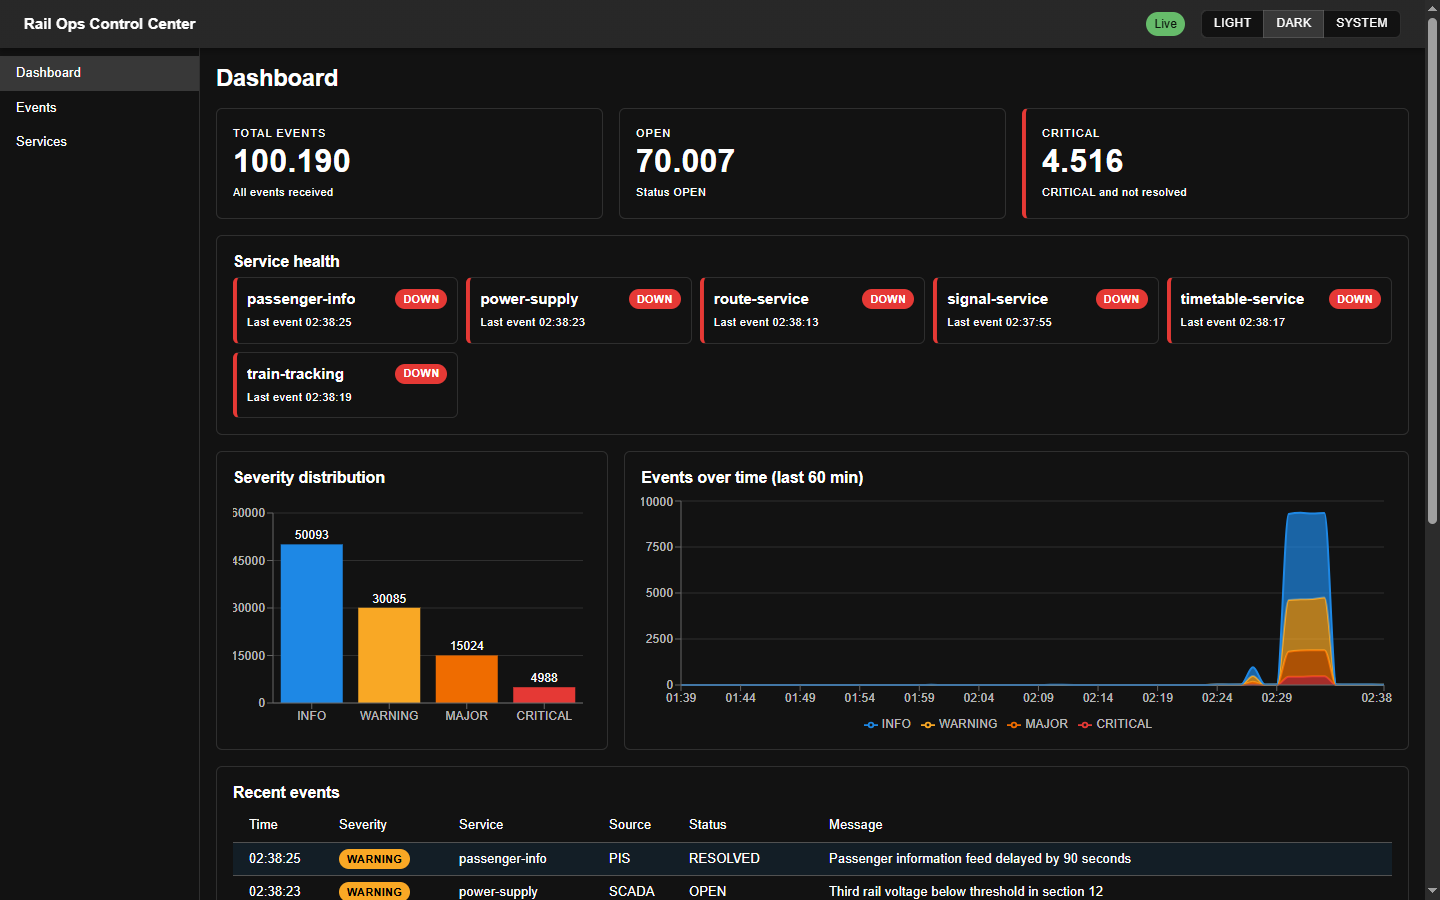
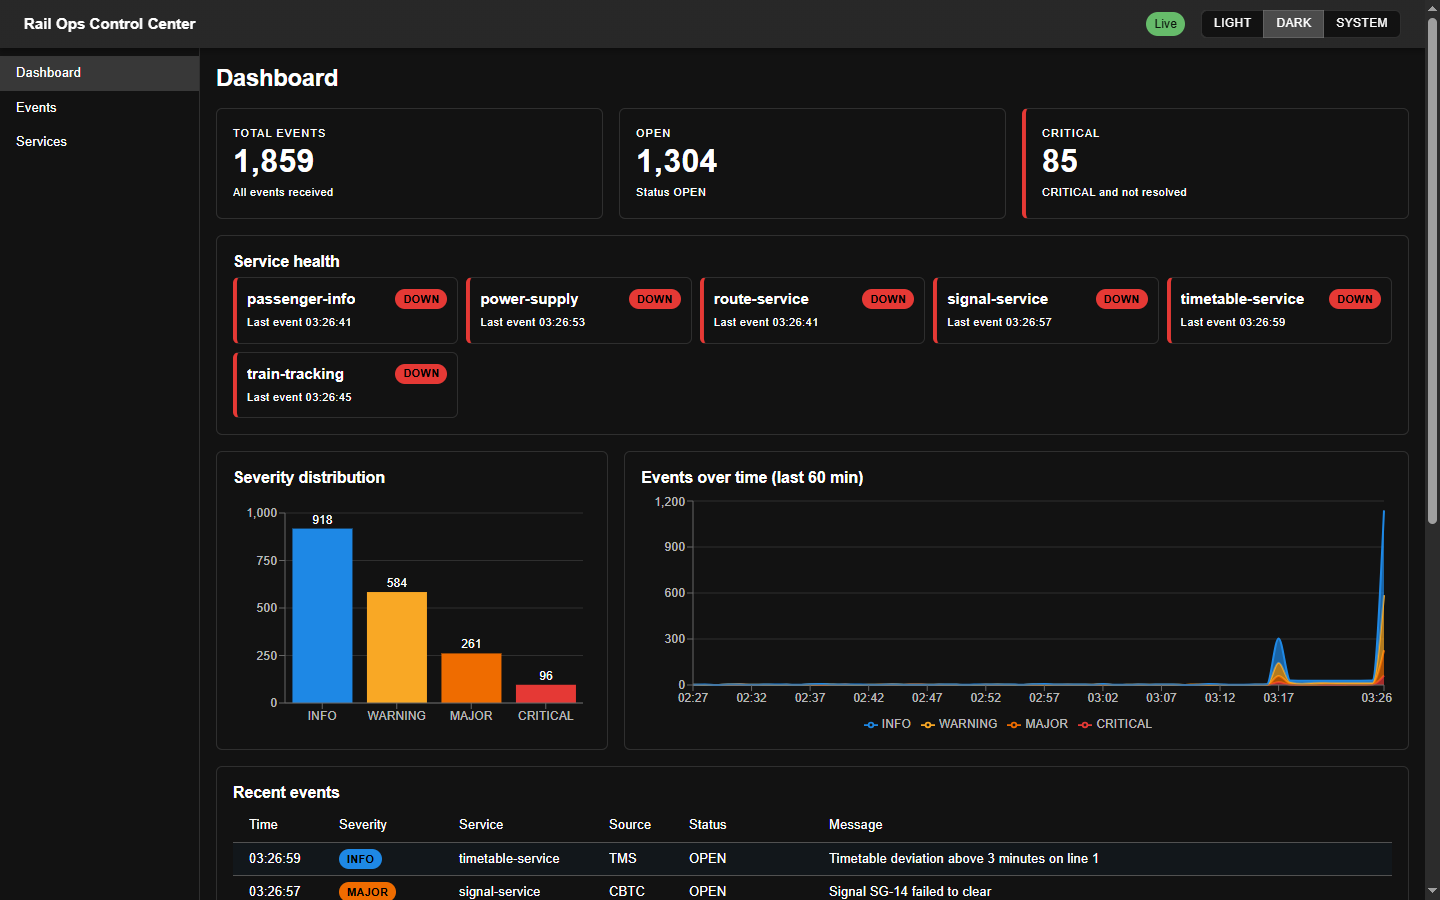
fix: resolve web interface guidelines audit findings
Raise the event drawer above the app bar, pin dates and numbers to
en-GB and format chart counts consistently, widen the chart y-axes,
pick chip text by WCAG contrast, and reserve a stable scrollbar gutter.

diff --git a/frontend/src/components/dashboard/SeverityChart.tsx b/frontend/src/components/dashboard/SeverityChart.tsx
@@ -3,6 +3,7 @@ import { Bar, BarChart, CartesianGrid, Cell, LabelList, ResponsiveContainer, Too
 import { useDashboardSummary } from '../../api/dashboard'
 import { toSeverityRows } from '../../lib/chartData'
 import { SEVERITY_COLORS } from '../../lib/colors'
+import { formatCount } from '../../lib/format'
 import { EmptyState, Panel } from './Panel'
 
 const AXIS_TICK = { fill: 'var(--mui-palette-text-secondary)', fontSize: 12 }
@@ -23,13 +24,19 @@ export function SeverityChart() {
             <BarChart data={rows} margin={{ top: 20, right: 8, bottom: 0, left: 0 }}>
               <CartesianGrid vertical={false} stroke="var(--mui-palette-divider)" />
               <XAxis dataKey="severity" tick={AXIS_TICK} interval={0} />
-              <YAxis allowDecimals={false} tick={AXIS_TICK} width={40} />
-              <Tooltip cursor={{ fill: 'var(--mui-palette-action-hover)' }} />
+              <YAxis allowDecimals={false} tick={AXIS_TICK} width={52} tickFormatter={formatCount} />
+              <Tooltip cursor={{ fill: 'var(--mui-palette-action-hover)' }} formatter={(value) => formatCount(Number(value))} />
               <Bar dataKey="count" name="Events" isAnimationActive={false}>
                 {rows.map((row) => (
                   <Cell key={row.severity} fill={SEVERITY_COLORS[row.severity]} />
                 ))}
-                <LabelList dataKey="count" position="top" fill="var(--mui-palette-text-primary)" fontSize={12} />
+                <LabelList
+                  dataKey="count"
+                  position="top"
+                  fill="var(--mui-palette-text-primary)"
+                  fontSize={12}
+                  formatter={(value) => formatCount(Number(value))}
+                />
               </Bar>
             </BarChart>
           </ResponsiveContainer>

diff --git a/frontend/src/components/dashboard/TimelineChart.tsx b/frontend/src/components/dashboard/TimelineChart.tsx
@@ -3,6 +3,7 @@ import { Area, AreaChart, CartesianGrid, Legend, ResponsiveContainer, Tooltip, X
 import { TIMELINE_MINUTES, useTimeline } from '../../api/dashboard'
 import { timelineTotal, toTimelineRows } from '../../lib/chartData'
 import { SEVERITY_COLORS } from '../../lib/colors'
+import { formatCount } from '../../lib/format'
 import { SEVERITIES } from '../../types/dashboard'
 import type { Severity } from '../../types/dashboard'
 import { EmptyState, Panel } from './Panel'
@@ -42,8 +43,12 @@ export function TimelineChart() {
             <AreaChart data={rows} margin={{ top: 8, right: 8, bottom: 0, left: 0 }}>
               <CartesianGrid vertical={false} stroke="var(--mui-palette-divider)" />
               <XAxis dataKey="label" tick={AXIS_TICK} interval="preserveStartEnd" minTickGap={24} />
-              <YAxis allowDecimals={false} tick={AXIS_TICK} width={40} />
-              <Tooltip cursor={{ stroke: 'var(--mui-palette-divider)' }} itemSorter={bySeverity} />
+              <YAxis allowDecimals={false} tick={AXIS_TICK} width={52} tickFormatter={formatCount} />
+              <Tooltip
+                cursor={{ stroke: 'var(--mui-palette-divider)' }}
+                itemSorter={bySeverity}
+                formatter={(value) => formatCount(Number(value))}
+              />
               <Legend wrapperStyle={{ fontSize: 12 }} itemSorter={bySeverity} formatter={legendLabel} />
               {STACK_ORDER.map((severity) => (
                 <Area

diff --git a/frontend/src/pages/DashboardPage.test.tsx b/frontend/src/pages/DashboardPage.test.tsx
@@ -97,7 +97,7 @@ describe('dashboard page', () => {
     renderApp('/dashboard')
 
     const total = screen.getByRole('region', { name: 'Total events' })
-    expect(await within(total).findByText((1234).toLocaleString())).toBeInTheDocument()
+    expect(await within(total).findByText('1,234')).toBeInTheDocument()
     expect(within(screen.getByRole('region', { name: 'Open' })).getByText('120')).toBeInTheDocument()
     expect(within(screen.getByRole('region', { name: 'Critical' })).getByText('12')).toBeInTheDocument()
 
@@ -134,7 +134,7 @@ describe('dashboard page', () => {
     act(() => live.simulateSummaryMessage(JSON.stringify(populated.summary)))
 
     // React Query's notifyManager batches cache-update notifications on a real timer, not a microtask.
-    await waitFor(() => expect(within(total).getByText((1234).toLocaleString())).toBeInTheDocument())
+    await waitFor(() => expect(within(total).getByText('1,234')).toBeInTheDocument())
     expect(within(screen.getByRole('region', { name: 'Open' })).getByText('120')).toBeInTheDocument()
   })
 

diff --git a/frontend/src/lib/colors.ts b/frontend/src/lib/colors.ts
@@ -15,7 +15,21 @@ export const HEALTH_COLORS: Record<ServiceHealth, string> = {
   DOWN: '#e53935',
 }
 
-/** Text color that stays readable on top of a severity or health color. */
+function luminance(hex: string): number {
+  const [r, g, b] = [1, 3, 5].map((start) => {
+    const channel = parseInt(hex.slice(start, start + 2), 16) / 255
+    return channel <= 0.03928 ? channel / 12.92 : ((channel + 0.055) / 1.055) ** 2.4
+  })
+  return 0.2126 * r + 0.7152 * g + 0.0722 * b
+}
+
+/** WCAG contrast ratio between two `#rrggbb` colors. */
+export function contrastRatio(a: string, b: string): number {
+  const [light, dark] = [luminance(a), luminance(b)].sort((x, y) => y - x)
+  return (light + 0.05) / (dark + 0.05)
+}
+
+/** Black or white, whichever reads better on top of a severity or health color. */
 export function contrastText(background: string): string {
-  return background === SEVERITY_COLORS.WARNING ? '#000' : '#fff'
+  return contrastRatio(background, '#000000') >= contrastRatio(background, '#ffffff') ? '#000000' : '#ffffff'
 }

diff --git a/frontend/src/lib/format.ts b/frontend/src/lib/format.ts
@@ -1,17 +1,20 @@
-const timeFormat = new Intl.DateTimeFormat(undefined, {
+// The UI copy is English only, so numbers and dates must not follow the browser locale.
+const LOCALE = 'en-GB'
+
+const timeFormat = new Intl.DateTimeFormat(LOCALE, {
   hour: '2-digit',
   minute: '2-digit',
   second: '2-digit',
   hour12: false,
 })
 
-const minuteFormat = new Intl.DateTimeFormat(undefined, {
+const minuteFormat = new Intl.DateTimeFormat(LOCALE, {
   hour: '2-digit',
   minute: '2-digit',
   hour12: false,
 })
 
-const dateTimeFormat = new Intl.DateTimeFormat(undefined, {
+const dateTimeFormat = new Intl.DateTimeFormat(LOCALE, {
   dateStyle: 'medium',
   timeStyle: 'medium',
   hour12: false,
@@ -40,6 +43,8 @@ export function formatDateTime(iso: string | null | undefined): string {
   return date ? dateTimeFormat.format(date) : '—'
 }
 
+const countFormat = new Intl.NumberFormat(LOCALE)
+
 export function formatCount(value: number): string {
-  return value.toLocaleString()
+  return countFormat.format(value)
 }

diff --git a/frontend/src/lib/format.test.ts b/frontend/src/lib/format.test.ts
@@ -1,5 +1,5 @@
 import { describe, expect, it } from 'vitest'
-import { formatDateTime, formatMinute, formatTime } from './format'
+import { formatCount, formatDateTime, formatMinute, formatTime } from './format'
 
 describe('formatTime', () => {
   it('formats an ISO time as local HH:mm:ss', () => {
@@ -26,5 +26,19 @@ describe('formatDateTime', () => {
 
   it('includes the seconds of a valid time', () => {
     expect(formatDateTime('2026-09-27T12:30:05Z')).toContain('05')
+  })
+})
+
+describe('formatCount', () => {
+  it('groups thousands with commas whatever the process locale', () => {
+    expect(formatCount(100197)).toBe('100,197')
+    expect(formatCount(50097)).toBe('50,097')
+  })
+})
+
+describe('pinned locale', () => {
+  it('uses a 24 hour clock and an English month name', () => {
+    expect(formatTime('2026-09-27T23:30:05Z')).toMatch(/^\d{2}:\d{2}:05$/)
+    expect(formatDateTime('2026-09-30T12:00:00Z')).toMatch(/^30 Sept 2026, \d{2}:\d{2}:\d{2}$/)
   })
 })

diff --git a/frontend/src/lib/colors.test.ts b/frontend/src/lib/colors.test.ts
@@ -1,0 +1,14 @@
+import { describe, expect, it } from 'vitest'
+import { contrastRatio, contrastText, HEALTH_COLORS, SEVERITY_COLORS } from './colors'
+
+describe('contrastText', () => {
+  const backgrounds = [...Object.entries(SEVERITY_COLORS), ...Object.entries(HEALTH_COLORS)]
+
+  it.each(backgrounds)('reaches WCAG AA on %s (%s)', (_name, background) => {
+    expect(contrastRatio(contrastText(background), background)).toBeGreaterThanOrEqual(4.5)
+  })
+
+  it('picks white on a dark background', () => {
+    expect(contrastText('#102030')).toBe('#ffffff')
+  })
+})

diff --git a/frontend/src/components/events/EventDetailDrawer.tsx b/frontend/src/components/events/EventDetailDrawer.tsx
@@ -30,6 +30,7 @@ export function EventDetailDrawer({ eventId, onClose, ...statusCallbacks }: Prop
       anchor="right"
       open={eventId !== undefined}
       onClose={onClose}
+      sx={(theme) => ({ zIndex: theme.zIndex.drawer + 2 })}
       slotProps={{ paper: { role: 'dialog', 'aria-modal': true, 'aria-labelledby': titleId } }}
     >
       <Box sx={{ width: { xs: '100vw', sm: 440 }, p: 2 }}>

diff --git a/frontend/src/pages/ServicesPage.test.tsx b/frontend/src/pages/ServicesPage.test.tsx
@@ -74,8 +74,8 @@ describe('services page', () => {
     expect(cells.map((cell) => cell.textContent)).toEqual([
       'signal-service',
       'DOWN',
-      (1234).toLocaleString(),
-      (1300).toLocaleString(),
+      '1,234',
+      '1,300',
       'CRITICAL',
       expect.stringMatching(/\d{2}:\d{2}:\d{2}/),
     ])

diff --git a/frontend/src/theme.ts b/frontend/src/theme.ts
@@ -12,6 +12,7 @@ export const theme = createTheme({
     h2: { fontSize: '1rem', fontWeight: 600 },
   },
   components: {
+    MuiCssBaseline: { styleOverrides: { html: { scrollbarGutter: 'stable' } } },
     MuiCard: { defaultProps: { variant: 'outlined' } },
     MuiPaper: { defaultProps: { elevation: 0 } },
   },

diff --git a/blueprint/history/fixes/web-interface-guidelines-audit.md b/blueprint/history/fixes/web-interface-guidelines-audit.md
@@ -1,0 +1,152 @@
+# Fix: Web Interface Guidelines audit findings
+
+**Type:** Fix
+**Status:** verified
+**Branch:** fix/web-interface-guidelines-audit
+
+## The problem
+
+An audit of the dashboard against Vercel's Web Interface Guidelines (screenshots
+in `docs/images/`, then confirmed in the source) found five real defects:
+
+1. **Event drawer hidden under the app bar.** `AppLayout.tsx` sets the AppBar to
+   `zIndex: drawer + 1` (1201) so it sits above the permanent nav drawer. The
+   Events detail drawer (a temporary MUI `Drawer`, z-index 1200) therefore
+   renders below the bar. Its top 48 px, which holds the event ID title and the
+   Close button, is covered, so the Close button cannot be clicked and the
+   scrim does not dim the header. Guideline: sticky headers must not cover
+   focused elements.
+2. **Locale follows the browser, copy does not.** Every formatter in
+   `lib/format.ts` passes `undefined` as the locale. The UI text is English
+   only, but a Turkish browser shows `100.197` (a thousands separator that an
+   English reader takes for a decimal) and `30 Eyl 2026`.
+3. **Number formatting is inconsistent.** KPI cards and the Services table use
+   `formatCount`, but the Severity chart's axis ticks, bar labels and tooltips
+   and the Timeline chart's axis ticks and tooltips print raw numbers
+   (`50097`, `10000`).
+4. **Clipped y-axis labels.** Both charts fix `YAxis width={40}`. A five-digit
+   tick such as `50000` is cut off at the left edge, and grouped ticks such as
+   `50,000` need more room.
+5. **Chip contrast below AA.** `contrastText` in `lib/colors.ts` returns white
+   on everything except the WARNING amber. White on `#1e88e5` is about 3.7:1,
+   on `#ef6c00` about 3.1:1, on `#e53935` about 4.2:1 and on `#43a047` about
+   3.3:1. The chips use 11 px bold text, which needs 4.5:1.
+6. **Layout shift between routes.** The Dashboard page scrolls and shows a
+   scrollbar; the Services page does not. The header controls jump about 15 px
+   when navigating between them.
+
+## The fix
+
+- **Drawer stacking.** Give the Events detail drawer a z-index above the app
+  bar (`theme.zIndex.drawer + 2` via `sx`), so the title and Close button are
+  visible and the scrim covers the header. The permanent nav and app bar
+  ordering in `AppLayout` stays as it is. Toasts (Snackbar, 1400) stay above.
+- **One locale.** Add `const LOCALE = 'en-GB'` in `lib/format.ts`, pass it to
+  all three `Intl.DateTimeFormat` instances, and make `formatCount` use one
+  shared `Intl.NumberFormat(LOCALE)`. `en-GB` keeps the current 24 hour clock
+  and is the natural fit for a European rail operator. This is the one
+  judgment call in the spec: the alternative, translating the UI, is a
+  feature, not a fix.
+- **One number format.** Use `formatCount` for the Severity chart's `YAxis`
+  `tickFormatter`, its `LabelList` `formatter` and its tooltip value, and for
+  the Timeline chart's `YAxis` `tickFormatter` and tooltip values.
+- **Axis width.** Raise both `YAxis` widths to 52 so grouped five-digit ticks
+  fit.
+- **Chip text color.** Make `contrastText(background)` return `#000` or `#fff`,
+  whichever has the higher WCAG contrast ratio against the given hex color,
+  computed from relative luminance. All four severity colors and the three
+  health colors resolve to black, which passes AA (about 5 to 7:1). The color
+  mapping itself stays untouched, so the charts keep their colors.
+- **Scrollbar gutter.** Add `scrollbar-gutter: stable` on `html` through the
+  theme's `MuiCssBaseline` `styleOverrides` (`CssBaseline` is already rendered
+  in `AppProviders.tsx`).
+
+Must not break: the drawer's title `id`/`aria-labelledby` wiring, the existing
+`role="img"` labels on both charts, the filter, status-change and toast
+behavior, and the existing tests that compare against
+`(1234).toLocaleString()` (jsdom's default `en-US` renders the same `1,234` as
+`en-GB`).
+
+No new dependency, no i18n framework, no theme-color or design overhaul.
+
+### Deliberately not in this fix
+
+Audit items that turned out to be non-defects or are separate work:
+
+- Search placeholder ellipsis: the field already has a label and a placeholder,
+  and `coding-standards.md` asks to avoid the ellipsis character.
+- Charts without a text alternative and the URL-as-state gap: both already
+  exist (`role="img"` labels; filters live in the URL).
+- Title Case headings, raw enum casing (`ACKNOWLEDGED`), the 5+1 health-card
+  wrap, linking KPI and health cards to filtered views: design preferences,
+  not defects. Raise them separately if wanted.
+
+## Build steps
+
+- [x] **1. Drawer stacking and layout shift.**
+  Raise the detail drawer above the app bar in `EventDetailDrawer.tsx`; add the
+  `scrollbar-gutter` override in `theme.ts`.
+  **Done when:** in the running app on `/events`, opening an event shows its ID
+  title and an enabled Close button at the top of the drawer, the scrim dims the
+  header, and the header controls stay put when switching between Dashboard and
+  Services. `npm test`, `npm run lint` and `npm run build` are green.
+
+- [x] **2. One locale and one number format.**
+  Change `lib/format.ts` as above and route the chart axes, labels and tooltips
+  through `formatCount`; widen both `YAxis`. Add to `format.test.ts`:
+  `formatCount(100197)` is `100,197`, and `formatDateTime`/`formatTime` output is
+  independent of the process default locale (assert the pinned `en-GB` shape,
+  for example a 24 hour time).
+  **Done when:** the new tests pass with the rest of `npm test`, lint and build,
+  and no chart tick or label is clipped or ungrouped in the browser.
+
+- [x] **3. Chip contrast.**
+  Rewrite `contrastText` to pick the higher-contrast of black and white. Add
+  `lib/colors.test.ts`: every color in `SEVERITY_COLORS` and `HEALTH_COLORS`
+  yields text with a contrast ratio of at least 4.5:1 against its background.
+  **Done when:** the test passes, `npm test`, lint and build are green, and the
+  chips read as black text on their colors in both themes.
+
+- [x] **4. Live check and screenshots.**
+  Rebuild with `docker compose up -d --build --wait frontend`. Check every
+  point in Verify below in the browser under a non-English browser locale
+  (for example Playwright `locale: 'tr-TR'`). Then retake the four images in
+  `docs/images/` (`dashboard.png`, `dashboard-dark.png`, `events-detail.png`,
+  `services.png`) from a fresh stack with a small producer burst, so the
+  services are not all DOWN.
+  **Done when:** the four screenshots show `en-GB`-formatted numbers, an
+  unclipped chart axis, a drawer with a visible title and Close button, and no
+  console errors besides the browser's own failed-request lines.
+
+## Verify
+
+- Automated: the new `format.test.ts` and `colors.test.ts` cases plus the full
+  frontend suite, lint and build.
+- Manual, in the browser with a `tr-TR` locale: Dashboard and Services show
+  `100,197` style numbers and `30 Sept 2026` style dates; chart axes are not
+  clipped; the Events drawer shows its title and a working Close button; the
+  header does not shift between routes; chip text is black and readable in
+  Light and Dark.
+
+## Implementation notes
+
+- Drawer: `sx={(theme) => ({ zIndex: theme.zIndex.drawer + 2 })}` on the Events
+  detail `Drawer`. In a `tr-TR` browser the Close button is the topmost element
+  at its position and the scrim covers the header.
+- `contrastText` now returns `#000000` or `#ffffff` (full hex, so
+  `contrastRatio` can parse its own output). All seven severity and health
+  colors resolve to black.
+- The Dashboard and Services page tests compared against
+  `(1234).toLocaleString()`, which is `1.234` under the Turkish default locale
+  of the dev machine, so they were locale-dependent themselves. They now assert
+  the literal `1,234` and `1,300`.
+- Live check (tr-TR): KPIs read `1,858`, dates `30 Sept 2026`; the header sits at
+  the same position on Dashboard and Services; no console errors.
+- Deviation: the screenshots come from a fresh stack with about 1,500 events, not
+  a small burst, so the counts pass 1,000 and show grouping. Any active CRITICAL
+  makes a service DOWN, so all services show DOWN, as the README already says.
+  No tick reached five digits, so five-digit axis clipping was not seen live; the
+  four-digit ticks (`1,200`) fit.
+
+
[1 lines of base64/hex data omitted]
